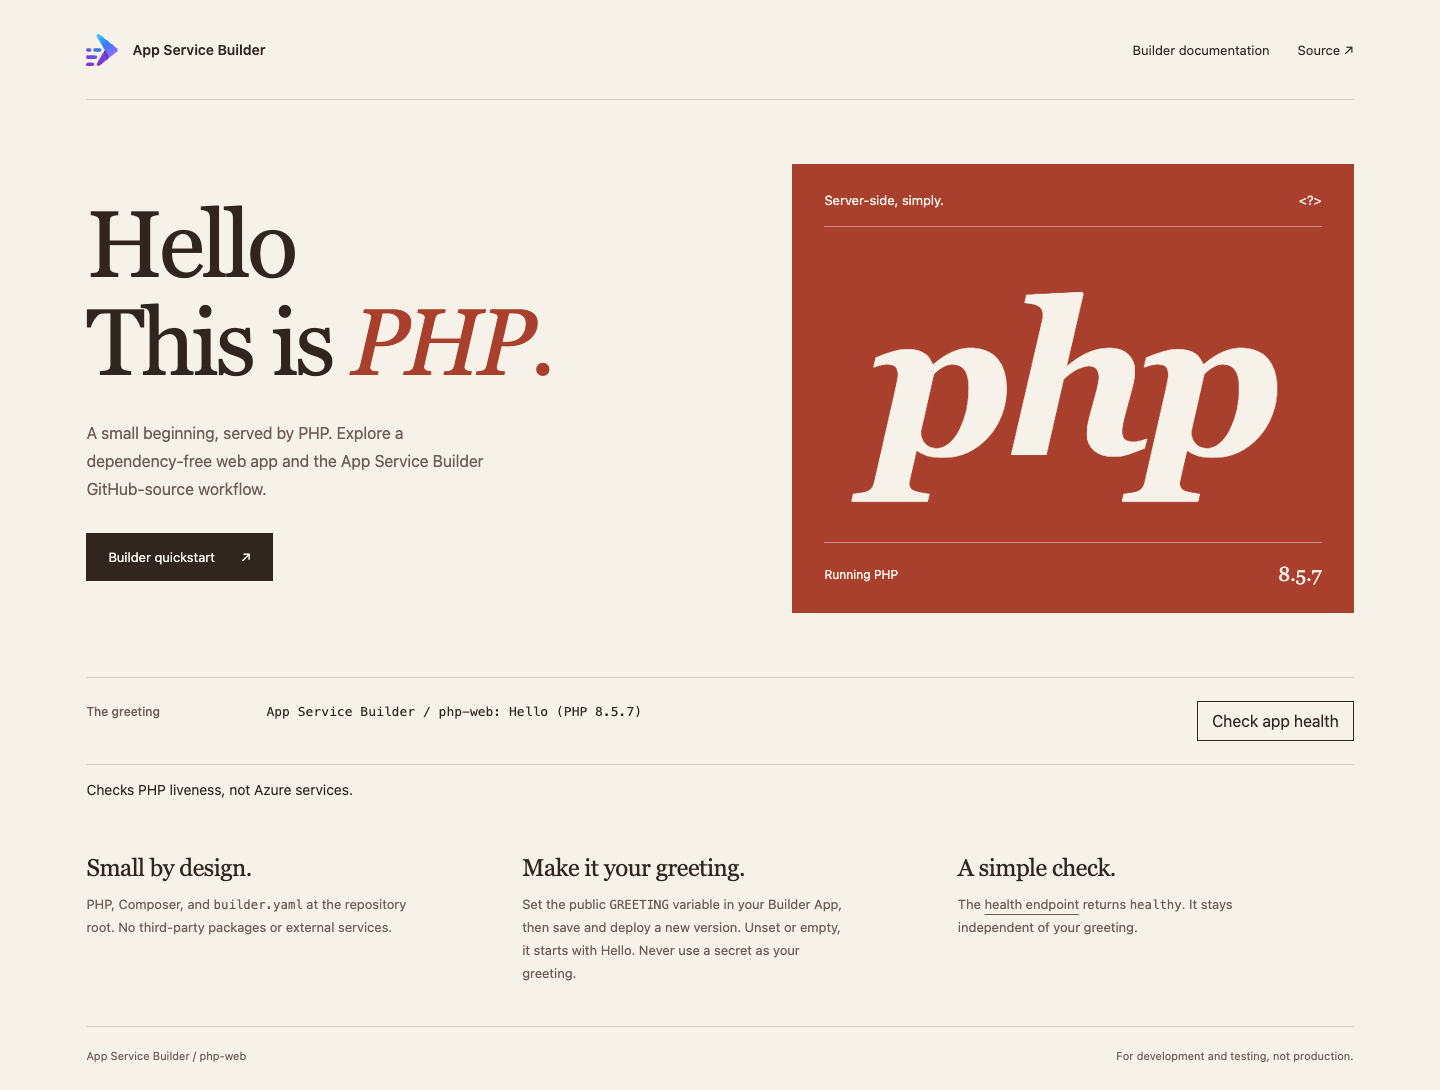
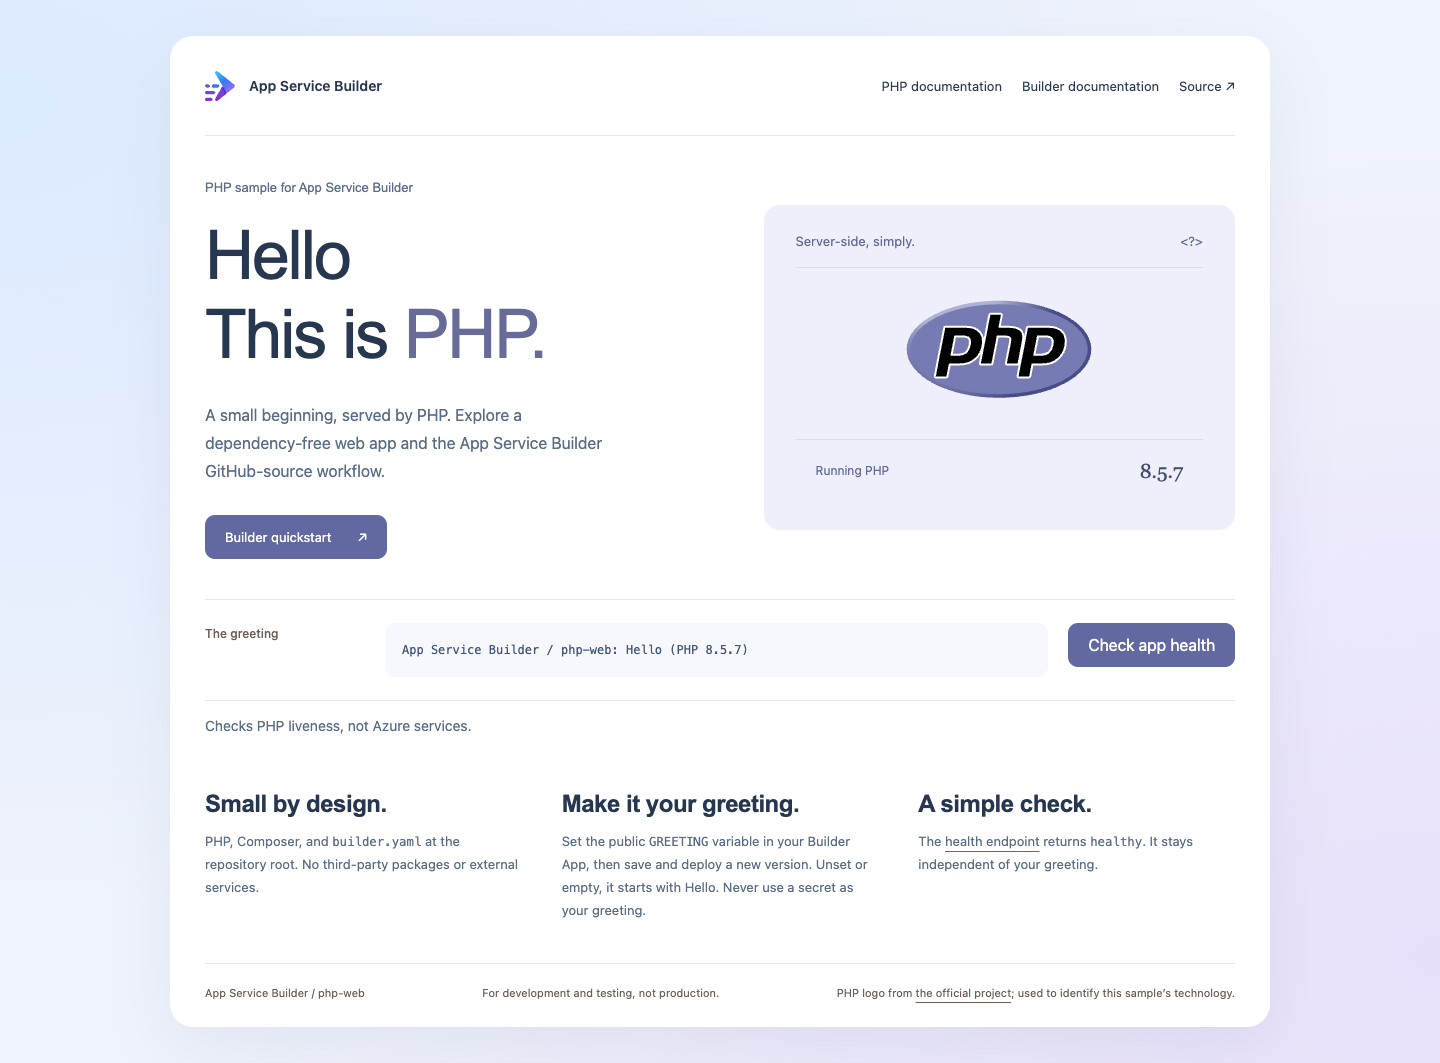
Refresh the language-specific Builder sample UI

diff --git a/index.php b/index.php
@@ -23,11 +23,8 @@ http_response_code(200);
 <!doctype html>
 <html lang="en">
 <!--
-THESIS: A small PHP program presented as a confident editorial specimen, not a dashboard.
-OWN-WORLD: Paper, ink, terracotta; oversized serif lettering, hairline rules, square controls.
-STORY: Read the actual greeting and PHP version, inspect the response, then explore the source.
-FIRST VIEWPORT: Greeting at left, a large terracotta PHP specimen at right, real response beneath.
-FORM: Brief-pinned editorial spread; stacked on mobile. No simulated features or status claims.
+THESIS: A language-specific hello-world specimen in the approved soft modern Builder family.
+      FORM: Existing sample functionality and honest health/customization behavior retained.
 -->
 <head>
     <meta charset="utf-8">
@@ -107,7 +104,10 @@ FORM: Brief-pinned editorial spread; stacked on mobile. No simulated features or
             nav { gap: 12px; }
             .brand-logo { flex-shrink: 0; }
         }
-    </style>
+
+body{background:radial-gradient(ellipse at 0 10%,#dceaff,transparent 60%),radial-gradient(ellipse at 100% 90%,#e8e0fa,transparent 60%),#eff3fc;color:#26374f;font-family:"Segoe UI",Arial,sans-serif}.page{max-width:1100px;margin:36px auto;padding:0 35px;background:white;border-radius:23px;box-shadow:0 22px 65px #3b487515}header{padding:27px 0;border-color:#e2e8f1}.hero{padding:40px 0;gap:40px}h1{font-family:inherit;font-size:68px;letter-spacing:-.03em;line-height:1.15}h1 em{color:#676b98;font-style:normal}.greeting{font-family:inherit}.runtime{background:#eeeffb;border-radius:16px;color:#626992;box-shadow:none}.runtime-top,.runtime-bottom{border-color:#d7dcee}.runtime-version{color:#414d70}.php-word{display:grid;place-items:center;font-size:0}.language-logo{width:190px;max-width:100%;height:auto}.primary,.health-button{background:#6269a0;color:#fff;border:0;border-radius:10px;min-height:44px;padding:13px 20px}.primary:hover,.health-button:hover{background:#4f5687}.description,.details p,#health-status{color:#586c85}.response,.details,footer{border-color:#e2e8f1}.response pre{color:#405677;background:#f6f8fd;padding:17px;border-radius:10px;font-size:12px}.response{border-radius:0}.details h2{font-family:inherit;font-weight:600}a:focus-visible,button:focus-visible{outline-color:#7063c5}.runtime-bottom{padding:20px}.brand-logo{width:30px;height:30px}.sample-context{font-size:13px;color:#5d6d88;line-height:1.8;margin:0 0 17px}
+@media(max-width:650px){.page{margin:22px 15px;padding:0 21px}.hero{padding:30px 0;gap:28px}h1{font-size:48px}.runtime{min-height:210px}.language-logo{width:170px}.details{gap:24px}header{padding:23px 0}}
+header .brand{flex:none}header nav{display:flex;flex-wrap:wrap;gap:20px}@media(max-width:650px){header{flex-direction:column;align-items:flex-start;gap:17px}header nav{justify-content:space-between;width:100%;gap:12px;font-size:11px}.brand{font-size:16px}} </style>
 </head>
 <body>
     <a class="skip sans" href="#main">Skip to content</a>
@@ -163,7 +163,7 @@ FORM: Brief-pinned editorial spread; stacked on mobile. No simulated features or
 </clipPath>
 </defs>
 </svg><span>App Service Builder</span></div>
-            <nav aria-label="Main navigation">
+            <nav aria-label="Documentation"><a href="https://www.php.net/manual/en/">PHP documentation</a>
                 <a href="https://builder.appservice.azure.com/docs/">Builder documentation</a>
                 <a href="https://github.com/AzureAppService/app-service-builder-php">Source <span aria-hidden="true">&#8599;</span></a>
             </nav>
@@ -171,13 +171,107 @@ FORM: Brief-pinned editorial spread; stacked on mobile. No simulated features or
         <main id="main" tabindex="-1">
             <section class="hero" aria-labelledby="greeting-title">
                 <div class="intro">
-                    <h1 id="greeting-title"><span class="greeting"><?= $escapedGreeting ?></span>This is <em>PHP.</em></h1>
+                    <p class="sample-context">PHP sample for App Service Builder</p><h1 id="greeting-title"><span class="greeting"><?= $escapedGreeting ?></span>This is <em>PHP.</em></h1>
                     <p class="description sans">A small beginning, served by PHP. Explore a dependency-free web app and the App Service Builder GitHub-source workflow.</p>
                     <a class="primary sans" href="https://builder.appservice.azure.com/docs/quickstarts/portal/">Builder quickstart <span aria-hidden="true">&#8599;</span></a>
                 </div>
                 <aside class="runtime" aria-label="PHP runtime">
                     <div class="runtime-top sans"><span>Server-side, simply.</span><span aria-hidden="true">&lt;?&gt;</span></div>
-                    <div class="php-word" aria-hidden="true">php</div>
+                    <div class="php-word"><svg class="language-logo" role="img" aria-label="PHP" height="383.5975" id="php-svg3430" version="1.1" viewBox="0 0 711.20123 383.5975" width="711.20123" xml:space="preserve" xmlns="http://www.w3.org/2000/svg" xmlns:cc="http://creativecommons.org/ns#" xmlns:dc="http://purl.org/dc/elements/1.1/" xmlns:rdf="http://www.w3.org/1999/02/22-rdf-syntax-ns#" xmlns:svg="http://www.w3.org/2000/svg">
+  <title id="php-title3510">Official PHP Logo</title>
+  <metadata id="php-metadata3436">
+    <rdf:RDF>
+      <cc:Work rdf:about="">
+        <dc:format>image/svg+xml</dc:format>
+        <dc:type rdf:resource="http://purl.org/dc/dcmitype/StillImage"/>
+        <dc:title>Official PHP Logo</dc:title>
+        <dc:creator>
+          <cc:Agent>
+            <dc:title>Colin Viebrock</dc:title>
+          </cc:Agent>
+        </dc:creator>
+        <dc:description/>
+        <dc:contributor>
+          <cc:Agent>
+            <dc:title/>
+          </cc:Agent>
+        </dc:contributor>
+        <cc:license rdf:resource="http://creativecommons.org/licenses/by-sa/4.0/"/>
+        <dc:rights>
+          <cc:Agent>
+            <dc:title>Copyright Colin Viebrock 1997 - All rights reserved.</dc:title>
+          </cc:Agent>
+        </dc:rights>
+        <dc:date>1997</dc:date>
+      </cc:Work>
+      <cc:License rdf:about="http://creativecommons.org/licenses/by-sa/4.0/">
+        <cc:permits rdf:resource="http://creativecommons.org/ns#Reproduction"/>
+        <cc:permits rdf:resource="http://creativecommons.org/ns#Distribution"/>
+        <cc:requires rdf:resource="http://creativecommons.org/ns#Notice"/>
+        <cc:requires rdf:resource="http://creativecommons.org/ns#Attribution"/>
+        <cc:permits rdf:resource="http://creativecommons.org/ns#DerivativeWorks"/>
+        <cc:requires rdf:resource="http://creativecommons.org/ns#ShareAlike"/>
+      </cc:License>
+    </rdf:RDF>
+  </metadata>
+  <defs id="php-defs3434">
+    <clipPath clipPathUnits="userSpaceOnUse" id="php-clipPath3444">
+      <path d="M 11.52,162 C 11.52,81.677 135.307,16.561 288,16.561 l 0,0 c 152.693,0 276.481,65.116 276.481,145.439 l 0,0 c 0,80.322 -123.788,145.439 -276.481,145.439 l 0,0 C 135.307,307.439 11.52,242.322 11.52,162" id="php-path3446"/>
+    </clipPath>
+    <radialGradient cx="0" cy="0" fx="0" fy="0" gradientTransform="matrix(363.05789,0,0,-363.05789,177.52002,256.30713)" gradientUnits="userSpaceOnUse" id="php-radialGradient3452" r="1" spreadMethod="pad">
+      <stop id="php-stop3454" offset="0" style="stop-opacity:1;stop-color:#aeb2d5"/>
+      <stop id="php-stop3456" offset="0.3" style="stop-opacity:1;stop-color:#aeb2d5"/>
+      <stop id="php-stop3458" offset="0.75" style="stop-opacity:1;stop-color:#484c89"/>
+      <stop id="php-stop3460" offset="1" style="stop-opacity:1;stop-color:#484c89"/>
+    </radialGradient>
+    <clipPath clipPathUnits="userSpaceOnUse" id="php-clipPath3468">
+      <path d="M 0,324 576,324 576,0 0,0 0,324 Z" id="php-path3470"/>
+    </clipPath>
+    <clipPath clipPathUnits="userSpaceOnUse" id="php-clipPath3480">
+      <path d="M 0,324 576,324 576,0 0,0 0,324 Z" id="php-path3482"/>
+    </clipPath>
+  </defs>
+  <g id="php-g3438" transform="matrix(1.25,0,0,-1.25,-4.4,394.29875)">
+    <g id="php-g3440">
+      <g clip-path="url(#php-clipPath3444)" id="php-g3442">
+        <g id="php-g3448">
+          <g id="php-g3450">
+            <path d="M 11.52,162 C 11.52,81.677 135.307,16.561 288,16.561 l 0,0 c 152.693,0 276.481,65.116 276.481,145.439 l 0,0 c 0,80.322 -123.788,145.439 -276.481,145.439 l 0,0 C 135.307,307.439 11.52,242.322 11.52,162" id="php-path3462" style="fill:url(#php-radialGradient3452);stroke:none"/>
+          </g>
+        </g>
+      </g>
+    </g>
+    <g id="php-g3464">
+      <g clip-path="url(#php-clipPath3468)" id="php-g3466">
+        <g id="php-g3472" transform="translate(288,27.3594)">
+          <path d="M 0,0 C 146.729,0 265.68,60.281 265.68,134.641 265.68,209 146.729,269.282 0,269.282 -146.729,269.282 -265.68,209 -265.68,134.641 -265.68,60.281 -146.729,0 0,0" id="php-path3474" style="fill:#777bb3;fill-opacity:1;fill-rule:nonzero;stroke:none"/>
+        </g>
+      </g>
+    </g>
+    <g id="php-g3476">
+      <g clip-path="url(#php-clipPath3480)" id="php-g3478">
+        <g id="php-g3484" transform="translate(161.7344,145.3066)">
+          <path d="m 0,0 c 12.065,0 21.072,2.225 26.771,6.611 5.638,4.341 9.532,11.862 11.573,22.353 1.903,9.806 1.178,16.653 -2.154,20.348 C 32.783,53.086 25.417,55 14.297,55 L -4.984,55 -15.673,0 0,0 Z m -63.063,-67.75 c -0.895,0 -1.745,0.4 -2.314,1.092 -0.57,0.691 -0.801,1.601 -0.63,2.48 L -37.679,81.573 C -37.405,82.982 -36.17,84 -34.734,84 L 26.32,84 C 45.508,84 59.79,78.79 68.767,68.513 77.792,58.182 80.579,43.741 77.05,25.592 75.614,18.198 73.144,11.331 69.709,5.183 66.27,-0.972 61.725,-6.667 56.198,-11.747 49.582,-17.939 42.094,-22.429 33.962,-25.071 25.959,-27.678 15.681,-29 3.414,-29 l -24.722,0 -7.06,-36.322 c -0.274,-1.41 -1.508,-2.428 -2.944,-2.428 l -31.751,0 z" id="php-path3486" style="fill:#000000;fill-opacity:1;fill-rule:nonzero;stroke:none"/>
+        </g>
+        <g id="php-g3488" transform="translate(159.2236,197.3071)">
+          <path d="m 0,0 16.808,0 c 13.421,0 18.083,-2.945 19.667,-4.7 2.628,-2.914 3.124,-9.058 1.435,-17.767 C 36.012,-32.217 32.494,-39.13 27.452,-43.012 22.29,-46.986 13.898,-49 2.511,-49 L -9.523,-49 0,0 Z m 28.831,35 -61.055,0 c -2.872,0 -5.341,-2.036 -5.889,-4.855 l -28.328,-145.751 c -0.342,-1.759 0.12,-3.578 1.259,-4.961 1.14,-1.383 2.838,-2.183 4.63,-2.183 l 31.75,0 c 2.873,0 5.342,2.036 5.89,4.855 l 6.588,33.895 22.249,0 c 12.582,0 23.174,1.372 31.479,4.077 8.541,2.775 16.399,7.48 23.354,13.984 5.752,5.292 10.49,11.232 14.08,17.657 3.591,6.427 6.171,13.594 7.668,21.302 3.715,19.104 0.697,34.402 -8.969,45.466 C 63.965,29.444 48.923,35 28.831,35 m -45.633,-90 19.313,0 c 12.801,0 22.336,2.411 28.601,7.234 6.266,4.824 10.492,12.875 12.688,24.157 2.101,10.832 1.144,18.476 -2.871,22.929 C 36.909,3.773 28.87,6 16.808,6 L -4.946,6 -16.802,-55 M 28.831,29 C 47.198,29 60.597,24.18 69.019,14.539 77.44,4.898 79.976,-8.559 76.616,-25.836 75.233,-32.953 72.894,-39.46 69.601,-45.355 66.304,-51.254 61.999,-56.648 56.679,-61.539 50.339,-67.472 43.296,-71.7 35.546,-74.218 27.796,-76.743 17.925,-78 5.925,-78 l -27.196,0 -7.531,-38.75 -31.75,0 28.328,145.75 61.055,0" id="php-path3490" style="fill:#ffffff;fill-opacity:1;fill-rule:nonzero;stroke:none"/>
+        </g>
+        <g id="php-g3492" transform="translate(311.583,116.3066)">
+          <path d="m 0,0 c -0.896,0 -1.745,0.4 -2.314,1.092 -0.571,0.691 -0.802,1.6 -0.631,2.48 L 9.586,68.061 C 10.778,74.194 10.484,78.596 8.759,80.456 7.703,81.593 4.531,83.5 -4.848,83.5 L -27.55,83.5 -43.305,2.428 C -43.579,1.018 -44.814,0 -46.25,0 l -31.5,0 c -0.896,0 -1.745,0.4 -2.315,1.092 -0.57,0.691 -0.801,1.601 -0.63,2.48 l 28.328,145.751 c 0.274,1.409 1.509,2.427 2.945,2.427 l 31.5,0 c 0.896,0 1.745,-0.4 2.315,-1.091 0.57,-0.692 0.801,-1.601 0.63,-2.481 L -21.813,113 2.609,113 c 18.605,0 31.221,-3.28 38.569,-10.028 7.49,-6.884 9.827,-17.891 6.947,-32.719 L 34.945,2.428 C 34.671,1.018 33.437,0 32,0 L 0,0 Z" id="php-path3494" style="fill:#000000;fill-opacity:1;fill-rule:nonzero;stroke:none"/>
+        </g>
+        <g id="php-g3496" transform="translate(293.6611,271.0571)">
+          <path d="m 0,0 -31.5,0 c -2.873,0 -5.342,-2.036 -5.89,-4.855 l -28.328,-145.751 c -0.342,-1.759 0.12,-3.578 1.26,-4.961 1.14,-1.383 2.838,-2.183 4.63,-2.183 l 31.5,0 c 2.872,0 5.342,2.036 5.89,4.855 l 15.283,78.645 20.229,0 c 9.363,0 11.328,-2 11.407,-2.086 0.568,-0.611 1.315,-3.441 0.082,-9.781 l -12.531,-64.489 c -0.342,-1.759 0.12,-3.578 1.26,-4.961 1.14,-1.383 2.838,-2.183 4.63,-2.183 l 32,0 c 2.872,0 5.342,2.036 5.89,4.855 l 13.179,67.825 c 3.093,15.921 0.447,27.864 -7.861,35.5 -7.928,7.281 -21.208,10.82 -40.599,10.82 l -20.784,0 6.143,31.605 C 6.231,-5.386 5.77,-3.566 4.63,-2.184 3.49,-0.801 1.792,0 0,0 m 0,-6 -7.531,-38.75 28.062,0 c 17.657,0 29.836,-3.082 36.539,-9.238 6.703,-6.16 8.711,-16.141 6.032,-29.938 l -13.18,-67.824 -32,0 12.531,64.488 c 1.426,7.336 0.902,12.34 -1.574,15.008 -2.477,2.668 -7.746,4.004 -15.805,4.004 l -25.176,0 -16.226,-83.5 -31.5,0 L -31.5,-6 0,-6" id="php-path3498" style="fill:#ffffff;fill-opacity:1;fill-rule:nonzero;stroke:none"/>
+        </g>
+        <g id="php-g3500" transform="translate(409.5498,145.3066)">
+          <path d="m 0,0 c 12.065,0 21.072,2.225 26.771,6.611 5.638,4.34 9.532,11.861 11.574,22.353 1.903,9.806 1.178,16.653 -2.155,20.348 C 32.783,53.086 25.417,55 14.297,55 L -4.984,55 -15.673,0 0,0 Z m -63.062,-67.75 c -0.895,0 -1.745,0.4 -2.314,1.092 -0.57,0.691 -0.802,1.601 -0.631,2.48 L -37.679,81.573 C -37.404,82.982 -36.17,84 -34.733,84 L 26.32,84 C 45.509,84 59.79,78.79 68.768,68.513 77.793,58.183 80.579,43.742 77.051,25.592 75.613,18.198 73.144,11.331 69.709,5.183 66.27,-0.972 61.725,-6.667 56.198,-11.747 49.582,-17.939 42.094,-22.429 33.962,-25.071 25.959,-27.678 15.681,-29 3.414,-29 l -24.723,0 -7.057,-36.322 c -0.275,-1.41 -1.509,-2.428 -2.946,-2.428 l -31.75,0 z" id="php-path3502" style="fill:#000000;fill-opacity:1;fill-rule:nonzero;stroke:none"/>
+        </g>
+        <g id="php-g3504" transform="translate(407.0391,197.3071)">
+          <path d="M 0,0 16.808,0 C 30.229,0 34.891,-2.945 36.475,-4.7 39.104,-7.614 39.6,-13.758 37.91,-22.466 36.012,-32.217 32.493,-39.13 27.452,-43.012 22.29,-46.986 13.898,-49 2.511,-49 L -9.522,-49 0,0 Z m 28.831,35 -61.054,0 c -2.872,0 -5.341,-2.036 -5.889,-4.855 L -66.44,-115.606 c -0.342,-1.759 0.12,-3.578 1.259,-4.961 1.14,-1.383 2.838,-2.183 4.63,-2.183 l 31.75,0 c 2.872,0 5.342,2.036 5.89,4.855 l 6.587,33.895 22.249,0 c 12.582,0 23.174,1.372 31.479,4.077 8.541,2.775 16.401,7.481 23.356,13.986 5.752,5.291 10.488,11.23 14.078,17.655 3.591,6.427 6.171,13.594 7.668,21.302 3.715,19.105 0.697,34.403 -8.969,45.467 C 63.965,29.444 48.924,35 28.831,35 m -45.632,-90 19.312,0 c 12.801,0 22.336,2.411 28.601,7.234 6.267,4.824 10.492,12.875 12.688,24.157 2.102,10.832 1.145,18.476 -2.871,22.929 C 36.909,3.773 28.87,6 16.808,6 L -4.946,6 -16.801,-55 M 28.831,29 C 47.198,29 60.597,24.18 69.019,14.539 77.441,4.898 79.976,-8.559 76.616,-25.836 75.233,-32.953 72.894,-39.46 69.601,-45.355 66.304,-51.254 61.999,-56.648 56.679,-61.539 50.339,-67.472 43.296,-71.7 35.546,-74.218 27.796,-76.743 17.925,-78 5.925,-78 l -27.196,0 -7.53,-38.75 -31.75,0 28.328,145.75 61.054,0" id="php-path3506" style="fill:#ffffff;fill-opacity:1;fill-rule:nonzero;stroke:none"/>
+        </g>
+      </g>
+    </g>
+  </g>
+</svg></div>
                     <div class="runtime-bottom sans"><span>Running PHP</span><span class="runtime-version"><?= $escapedVersion ?></span></div>
                 </aside>
             </section>
@@ -206,7 +300,7 @@ FORM: Brief-pinned editorial spread; stacked on mobile. No simulated features or
         <footer class="sans">
             <p>App Service Builder <span aria-hidden="true">/</span> php-web</p>
             <p>For development and testing, not production.</p>
-        </footer>
+        <p>PHP logo from <a href="https://www.php.net/download-logos.php">the official project</a>; used to identify this sample’s technology.</p></footer>
     </div>
     <script>
         const button = document.querySelector('[data-health-check]');

diff --git a/README.md b/README.md
@@ -3,12 +3,12 @@
 A dependency-free PHP 8.5 web app for learning the App Service Builder
 GitHub-source workflow. The app, Composer project, and `builder.yaml` are at
 the repository root; no other sample repository or external service is needed.
-The home page at `/` is an editorial-style PHP showcase displaying the public
+The home page at `/` is an soft modern PHP introduction displaying the public
 greeting and actual PHP runtime version. Health remains a plain-text endpoint.
 
 ## Preview
 
-![PHP root page with the public greeting, actual local runtime version, terracotta specimen, and in-page health check](docs/images/sample.png)
+![PHP sample with official technology and Builder identity, inline health and source guidance](docs/images/sample.png)
 
 The screenshot shows the PHP showcase running locally in Microsoft Edge.
 **Check app health** displays PHP liveness here without leaving the page;
@@ -206,3 +206,7 @@ rather than a public issue. This sample is licensed under [MIT](LICENSE.md).
 - [Runtime requirements](https://builder.appservice.azure.com/docs/reference/runtimes/)
 
 The product mark uses the supplied App Service Builder asset in `assets/AppServiceBuilder.svg`. Its SVG is inlined in the root page to preserve the existing routes and security policy. Keep the inline copy and asset in sync when updating the logo.
+
+## Technology identity
+
+The root UI follows the Builder sample family while retaining this sample’s existing learning objective and real health behavior. It includes the official PHP logo, a clearly labeled language documentation link, and separate Builder documentation. Original logo source is retained under `assets/`.
